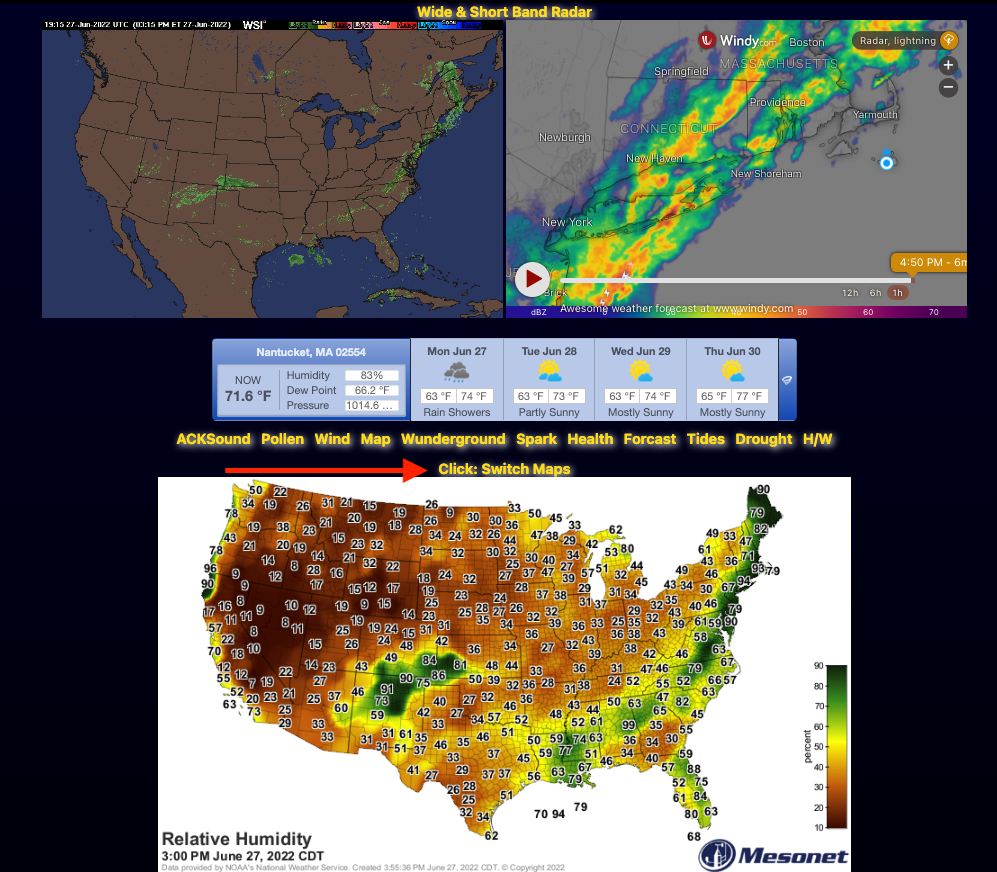
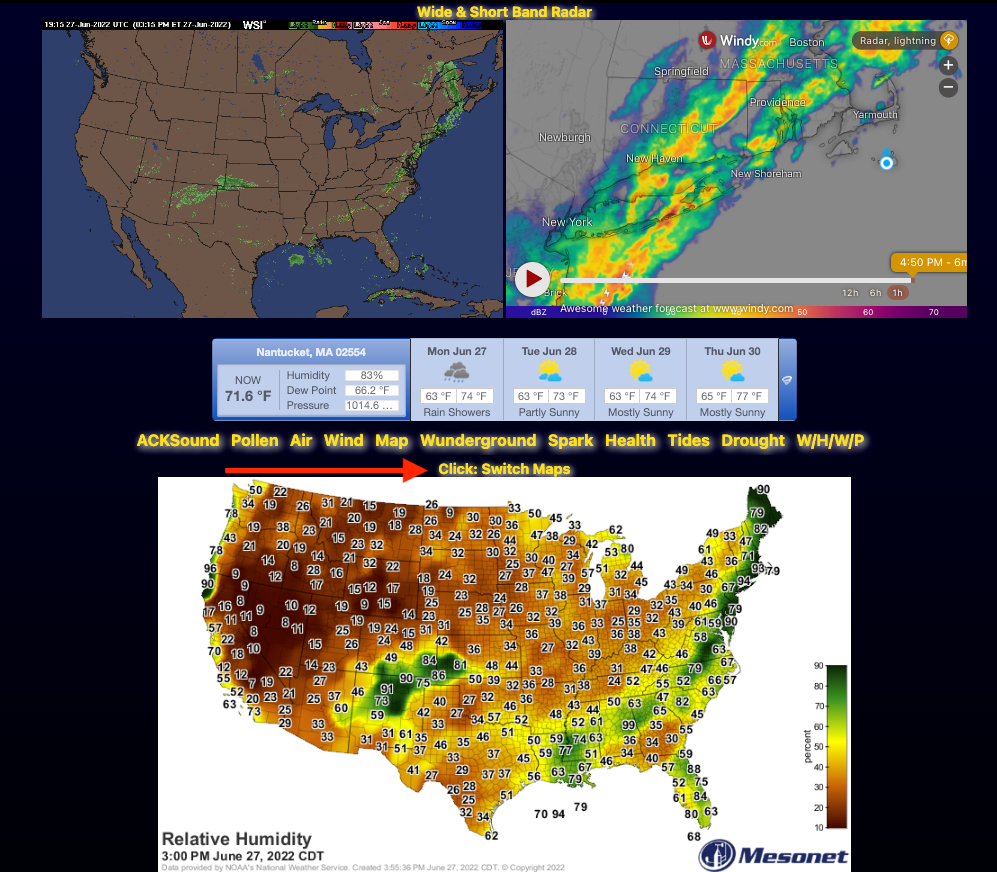
Air
With Canadian fires... a link to airnow.gov nantucket zipcode has been added to check air quality for the area, and to see a map of the whole US on that site.

Changed region(s): [[0.1244, 0.4954, 0.8706, 0.5264]]

diff --git a/weather.html b/weather.html
@@ -49,6 +49,7 @@
 	<span style="display: inline-block; margin: 10px 0 15px 0">
 		<a title="Bouy Data from Nantucket Sound" href="http://www.ndbc.noaa.gov/station_page.php?station=44020">ACKSound</a>
 		 &nbsp; <a title="Pollen Levels" href="https://www.pollen.com/forecast/current/pollen/02554">Pollen</a> 
+		 &nbsp; <a title="Air Qaulity via AirNow.gov" href="https://www.airnow.gov/?city=Nantucket&state=MA&country=USA" target="_">Air</a>
 		 &nbsp; <a title="Wind Map" href="http://hint.fm/wind/">Wind</a> 
                  &nbsp; <a title="Windy Map" href="https://www.windy.com/41.302/-70.117?40.522,-69.203,7,m:eNZaeej">Map</a>
 		 &nbsp; <a title="Wunderground Nantucket" href="https://www.wunderground.com/forecast/us/ma/nantucket/02554">Wunderground</a> 

diff --git a/README.md b/README.md
@@ -4,8 +4,8 @@ Purpose:
 
 	A dedicated web-page that grabs and displays weather info and maps for Nantucket 
 	with Interactive Maps and widgets and links to Nantucket Sound Bouy Data, Wind Map,
-    Pollen Levels, Drought, Wunderground Nantucket, WeatherSpark's tempature 
-	chart, Marine Traffic Map and more.
+    Pollen Levels, Drought, Wunderground Nantucket, WeatherSpark's tempature chart, 
+	Air Qaulity. Marine Traffic Map and more.
 
 <img src="https://github.com/xeoron/ackWeather/blob/master/images/sample.png?raw=true"/>
 
